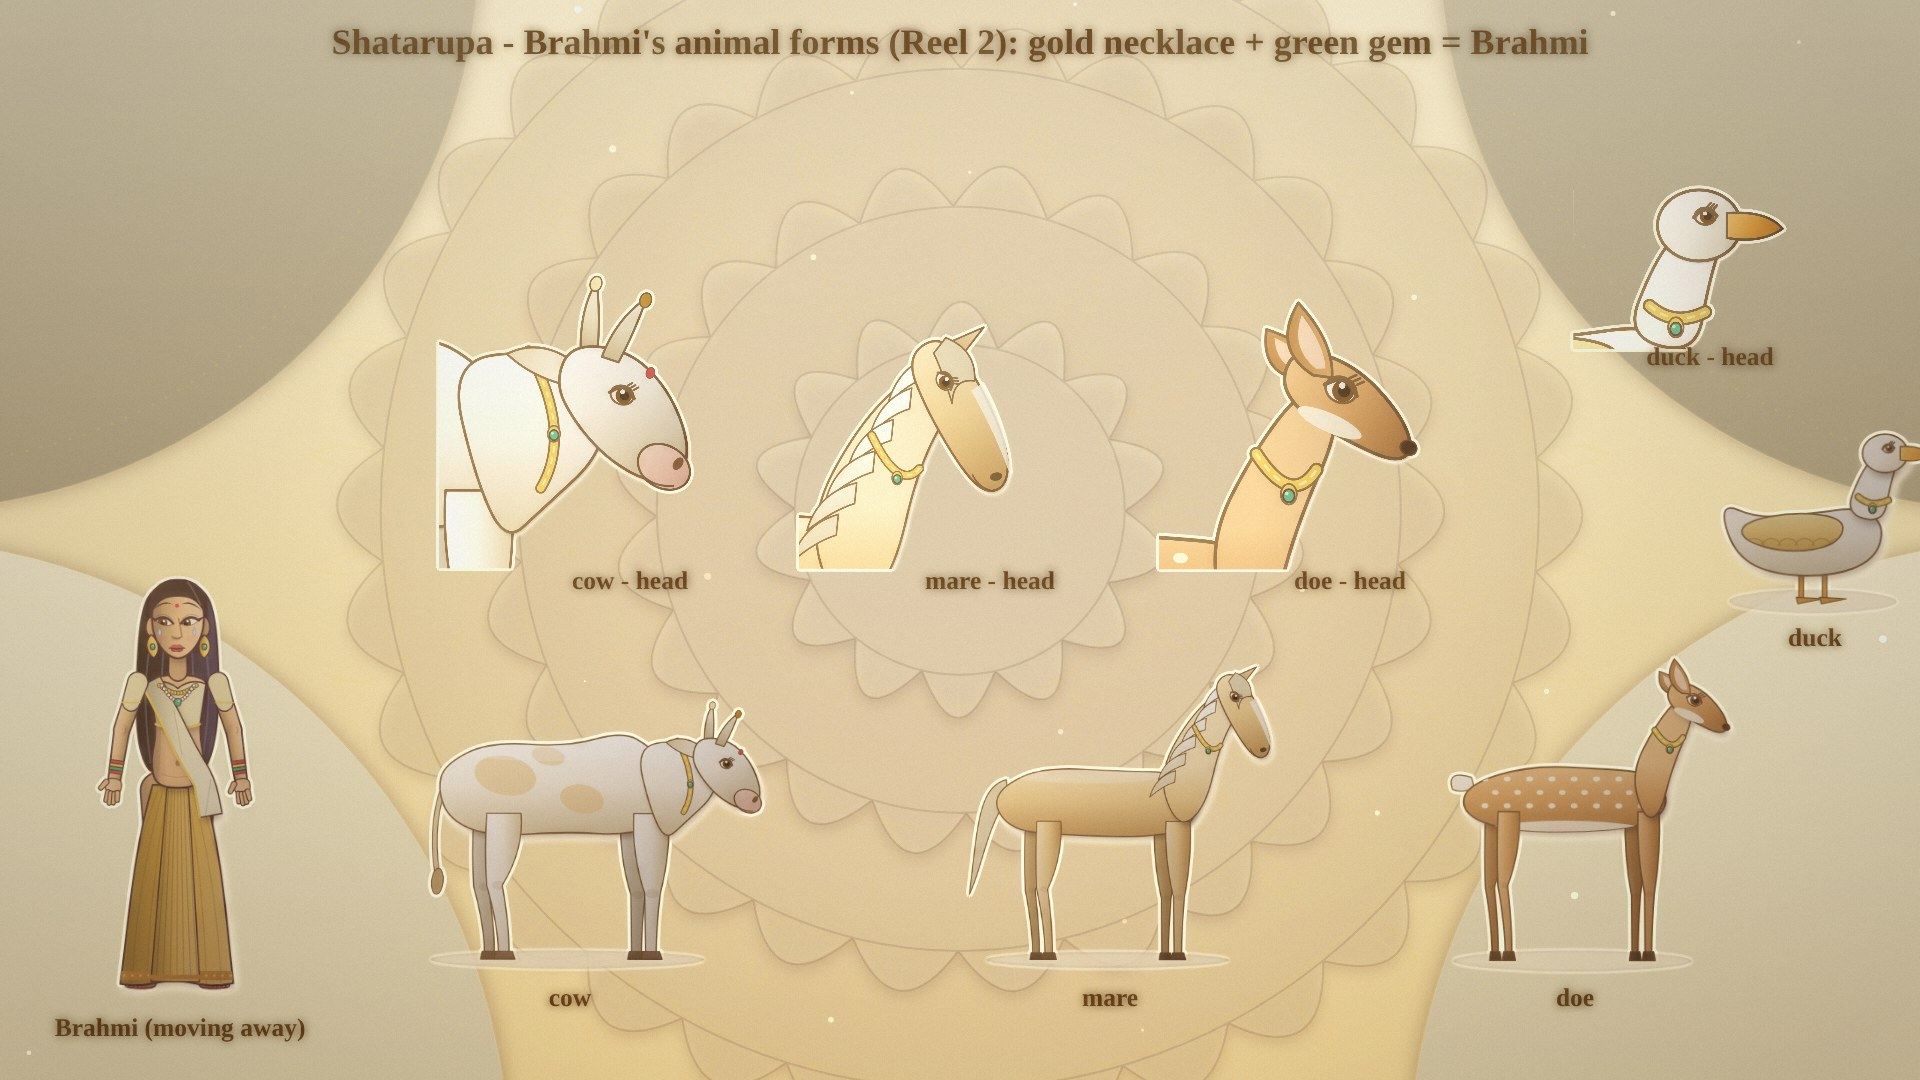
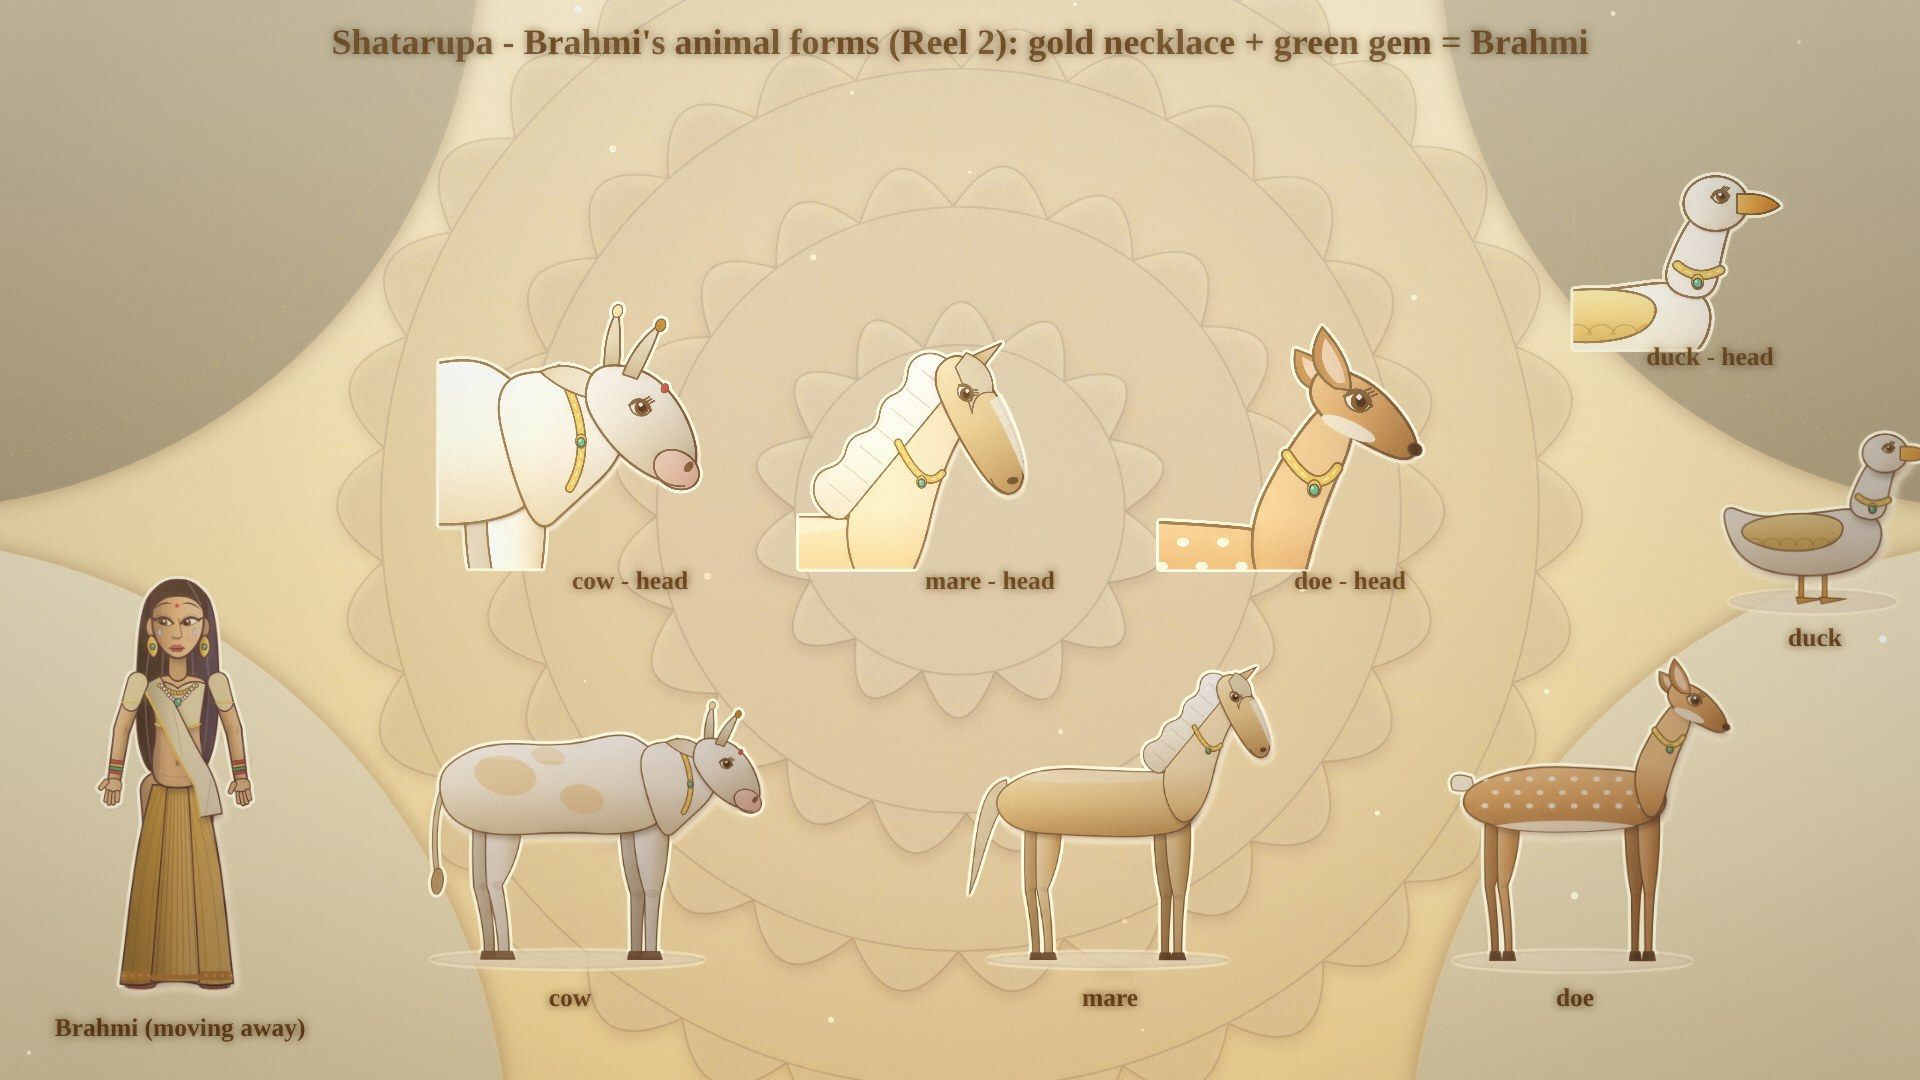
WIP: reels vertical mode and cast (agents still working)
Claude-Session: https://claude.ai/code/session_01Ec4SCjc7mpKu4xcSrfyjyA

diff --git a/engine/v2_cast.js b/engine/v2_cast.js
@@ -512,12 +512,11 @@ function aMove(o,t){const p=o.pose||'stand',run=p==='run'?1:(p==='walk'?.5:0),bo
   return{run:run,bow:bow,bob:Math.sin(t*1.6)*2-(run?Math.abs(Math.sin(t*f))*8*run:0),sw:k=>run?Math.sin(t*f+k)*.42*run:0,M:o.mood||{}}}
 function aShadow(c,w){c.fillStyle='rgba(30,16,8,.2)';c.beginPath();c.ellipse(0,2,w,14,0,0,7);c.fill()}
 function drawCow(c,o,t){const A=aMove(o,t),b=A.bob,C={b:'#f8f2e6',d:'#d2c2a4',h:'#ffffff'},hoof='#6a5440',body=PK.lg(c,0,-340,0,-190,[C.h,C.b,C.d]);aShadow(c,210);
-  aLeg(c,-120,-206+b,206,22,A.sw(0),C,hoof,1,1);aLeg(c,106,-206+b,206,22,A.sw(2),C,hoof,1);
+  aLeg(c,-120,-206+b,206,22,A.sw(0),C,hoof,1,1);aLeg(c,106,-206+b,206,22,A.sw(2),C,hoof,1);aLeg(c,-98,-210+b,210,24,A.sw(1),C,hoof,0,1);aLeg(c,128,-210+b,210,24,A.sw(3),C,hoof,0);
   const tl=cc=>{cc.moveTo(-182,-286+b);cc.quadraticCurveTo(-214,-220+Math.sin(t*2)*6,-200,-128)};PK.stroke(c,tl,AINK,9);PK.stroke(c,tl,C.d,6);PK.cut(c,PK.P.ell(-200,-118,9,20,.1),'#a88a62',{lw:1.6,ink:AINK,sh:0});
   const bp=PK.P.smooth([[-188,-300+b],[-120,-334+b],[0,-326+b],[84,-350+b],[128,-326+b],[162,-282+b],[152,-212+b],[90,-190+b],[0,-196+b],[-120,-188+b],[-182,-214+b],[-200,-262+b]]);
   PK.cut(c,bp,body,{lw:2.4,ink:AINK});c.save();c.beginPath();bp(c);c.clip();c.fillStyle='rgba(226,180,118,.55)';[[-96,-282,48,30],[22,-246,34,22],[-30,-312,26,14]].forEach(([x,y,rx,ry])=>{c.beginPath();c.ellipse(x,y+b,rx,ry,.2,0,7);c.fill()});
     c.fillStyle='rgba(255,255,255,.35)';c.beginPath();c.ellipse(-30,-316+b,120,12,0,0,7);c.fill();c.restore();
-  aLeg(c,-98,-210+b,210,24,A.sw(1),C,hoof,0,1);aLeg(c,128,-210+b,210,24,A.sw(3),C,hoof,0);
   const hy=-300+b+A.bow*80,hx=226-A.bow*10;
   PK.cut(c,PK.P.smooth([[104,-326+b],[170,-338+b],[hx,hy-8],[hx+4,hy+44],[178,-208+b],[150,-182+b],[126,-232+b]]),body,{lw:2.2,ink:AINK});
   aBand(c,[168,-336+b],[204,-270+b+A.bow*30],[178,-226+b+A.bow*20]);
@@ -530,14 +529,15 @@ function drawCow(c,o,t){const A=aMove(o,t),b=A.bob,C={b:'#f8f2e6',d:'#d2c2a4',h:
   aEye(c,16,-6,7.5,A.M,t);PK.cut(c,PK.P.ell(32,-30,3.4,4.4),'#d0243a',{lw:.8,ink:AINK,sh:0});horn(-2,6);
   c.restore()}
 function drawMare(c,o,t){const A=aMove(o,t),b=A.bob,C={b:'#e8c48a',d:'#b48450',h:'#fae4bc'},MN={b:'#fbf6e8',d:'#d8ccb0',h:'#ffffff'},hoof='#4a3a2a',body=PK.lg(c,0,-335,0,-210,[C.h,C.b,C.d]),mane=PK.lg(c,0,-480,0,-300,[MN.h,MN.b,MN.d]);aShadow(c,210);
-  aLeg(c,-124,-222+b,222,17,A.sw(0),C,hoof,1,1);aLeg(c,100,-222+b,222,17,A.sw(2),C,hoof,1);
+  aLeg(c,-124,-222+b,222,17,A.sw(0),C,hoof,1,1);aLeg(c,100,-222+b,222,17,A.sw(2),C,hoof,1);aLeg(c,-102,-226+b,226,19,A.sw(1),C,hoof,0,1);aLeg(c,122,-226+b,226,19,A.sw(3),C,hoof,0);
   const ts=Math.sin(t*1.8)*8+(A.run?14:0);PK.cut(c,cc=>{cc.moveTo(-176,-312+b);cc.bezierCurveTo(-226,-300+b,-232+ts,-220,-246+ts,-112);cc.bezierCurveTo(-226+ts,-150,-210,-230,-172,-282+b);cc.closePath()},mane,{lw:2,ink:AINK,sh:0});
   const bp=PK.P.smooth([[-182,-302+b],[-110,-334+b],[30,-326+b],[118,-326+b],[160,-286+b],[144,-226+b],[60,-212+b],[-60,-216+b],[-160,-222+b],[-198,-264+b]]);
   PK.cut(c,bp,body,{lw:2.4,ink:AINK});c.save();c.beginPath();bp(c);c.clip();c.fillStyle='rgba(255,255,255,.3)';c.beginPath();c.ellipse(-30,-318+b,130,12,0,0,7);c.fill();c.restore();
-  aLeg(c,-102,-226+b,226,19,A.sw(1),C,hoof,0,1);aLeg(c,122,-226+b,226,19,A.sw(3),C,hoof,0);
   const hx=214+A.bow*20,hy=-462+b+A.bow*120;
   PK.cut(c,PK.P.smooth([[86,-318+b],[140,-420+b+A.bow*60],[hx-10,hy-14],[hx+26,hy+10],[196,-380+b+A.bow*70],[170,-264+b],[122,-226+b]]),body,{lw:2.2,ink:AINK});
-  for(let i=0;i<6;i++){const u=i/5,x0=lerp(hx-18,108,u),y0=lerp(hy-12,-322+b,u),sw=Math.sin(t*2+i)*4;PK.cut(c,cc=>{cc.moveTo(x0+10,y0-6);cc.quadraticCurveTo(x0-24+sw,y0+4,x0-34+sw,y0+40);cc.quadraticCurveTo(x0-12,y0+20,x0+8,y0+14);cc.closePath()},mane,{lw:1.6,ink:AINK,sh:0})}
+  {const A0=[hx-4,hy-22],B0=[80,-326+b],dx=B0[0]-A0[0],dy=B0[1]-A0[1],d=Math.hypot(dx,dy),nx=-dy/d,ny=dx/d,pts=[];for(let i=0;i<=8;i++){const u=i/8;pts.push([A0[0]+dx*u-nx*12,A0[1]+dy*u-ny*12])}
+    for(let i=8;i>=0;i--){const u=i/8,j=(i%2?40:24)+Math.sin(t*2+i)*3;pts.push([A0[0]+dx*u+nx*j,A0[1]+dy*u+ny*j])}
+    PK.cut(c,PK.P.smooth(pts),mane,{lw:1.8,ink:AINK,sh:0});for(let i=1;i<8;i++){const u=i/8;PK.stroke(c,cc=>{cc.moveTo(A0[0]+dx*u-nx*6,A0[1]+dy*u-ny*6);cc.lineTo(A0[0]+dx*u+nx*24,A0[1]+dy*u+ny*24)},'rgba(150,130,90,.45)',1.4)}}
   aBand(c,[150,-404+b+A.bow*60],[176,-350+b+A.bow*70],[196,-372+b+A.bow*70]);
   c.save();c.translate(hx,hy);c.rotate(.98+A.bow*.4);
   PK.cut(c,cc=>{cc.moveTo(-22,-18);cc.lineTo(-14,-62);cc.lineTo(0,-20);cc.closePath()},PK.lg(c,0,-62,0,-18,[C.h,C.d]),{lw:1.8,ink:AINK,sh:0});
@@ -547,12 +547,11 @@ function drawMare(c,o,t){const A=aMove(o,t),b=A.bob,C={b:'#e8c48a',d:'#b48450',h
   PK.cut(c,cc=>{cc.moveTo(-26,-26);cc.quadraticCurveTo(0,-44,24,-26);cc.quadraticCurveTo(10,-10,30,4);cc.quadraticCurveTo(-4,-6,-20,-8);cc.closePath()},mane,{lw:1.6,ink:AINK,sh:0});
   aEye(c,8,-2,7.5,A.M,t);c.restore()}
 function drawDoe(c,o,t){const A=aMove(o,t),b=A.bob,C={b:'#d0905a',d:'#9a6034',h:'#eab886'},hoof='#3a2a1a',body=PK.lg(c,0,-262,0,-172,[C.h,C.b,C.d]);aShadow(c,160);
-  aLeg(c,-104,-182+b,182,12,A.sw(0),C,hoof,1,1);aLeg(c,84,-182+b,182,12,A.sw(2),C,hoof,1);
+  aLeg(c,-104,-182+b,182,12,A.sw(0),C,hoof,1,1);aLeg(c,84,-182+b,182,12,A.sw(2),C,hoof,1);aLeg(c,-86,-186+b,186,13,A.sw(1),C,hoof,0,1);aLeg(c,102,-186+b,186,13,A.sw(3),C,hoof,0);
   PK.cut(c,cc=>{cc.moveTo(-136,-246+b);cc.quadraticCurveTo(-170,-262+b+Math.sin(t*3)*5,-162,-230+b);cc.quadraticCurveTo(-150,-224+b,-132,-232+b);cc.closePath()},'#fbf4e6',{lw:1.6,ink:AINK,sh:0});
   const bp=PK.P.smooth([[-142,-236+b],[-60,-262+b],[40,-258+b],[108,-252+b],[132,-212+b],[100,-180+b],[0,-172+b],[-100,-176+b],[-150,-200+b]]);
   PK.cut(c,bp,body,{lw:2.4,ink:AINK});c.save();c.beginPath();bp(c);c.clip();c.fillStyle='#f6ead4';c.beginPath();c.ellipse(-10,-162+b,140,26,0,0,7);c.fill();
     c.fillStyle='rgba(255,248,232,.92)';for(let r=0;r<3;r++)for(let i=0;i<8;i++){const x=-118+i*30+(r%2)*14,y=-244+r*18+b;if(x<120)c.beginPath(),c.ellipse(x,y,4.6,3.4,0,0,7),c.fill()}c.restore();
-  aLeg(c,-86,-186+b,186,13,A.sw(1),C,hoof,0,1);aLeg(c,102,-186+b,186,13,A.sw(3),C,hoof,0);
   const hx=150+A.bow*16,hy=-350+b+A.bow*120;
   PK.cut(c,PK.P.smooth([[78,-252+b],[112,-318+b+A.bow*60],[hx-6,hy-6],[hx+16,hy+16],[134,-262+b+A.bow*40],[118,-196+b],[96,-190+b]]),body,{lw:2.2,ink:AINK});
   aBand(c,[110,-310+b+A.bow*60],[132,-276+b+A.bow*50],[148,-300+b+A.bow*50]);
@@ -578,7 +577,7 @@ function drawDuck(c,o,t){const A=aMove(o,t),b=A.bob*.6,C={b:'#fbf6ea',d:'#d8ccb0
   PK.cut(c,cc=>{cc.moveTo(18,-8);cc.quadraticCurveTo(44,-10,54,2);cc.quadraticCurveTo(40,12,18,8);cc.closePath()},PK.lg(c,18,-10,54,12,['#ffc060','#f0902a','#c8641a']),{lw:1.6,ink:AINK,sh:0});
   aEye(c,4,-6,5.4,A.M,t);c.restore()}
 const ANIMAL={cow:drawCow,mare:drawMare,doe:drawDoe,duck:drawDuck};
-const ANIMAL_HEAD={cow:[248,-290,1.5],mare:[262,-430,1.25],doe:[168,-338,1.9],duck:[92,-170,2.6]};
+const ANIMAL_HEAD={cow:[232,-300,1.3],mare:[244,-440,1.15],doe:[156,-344,1.6],duck:[80,-150,2.0]};
 const XFIG={kapali:drawKapali,kama:drawKama,brahma5:drawBrahma5};
 
 /* ---------- engine glue ---------- */
